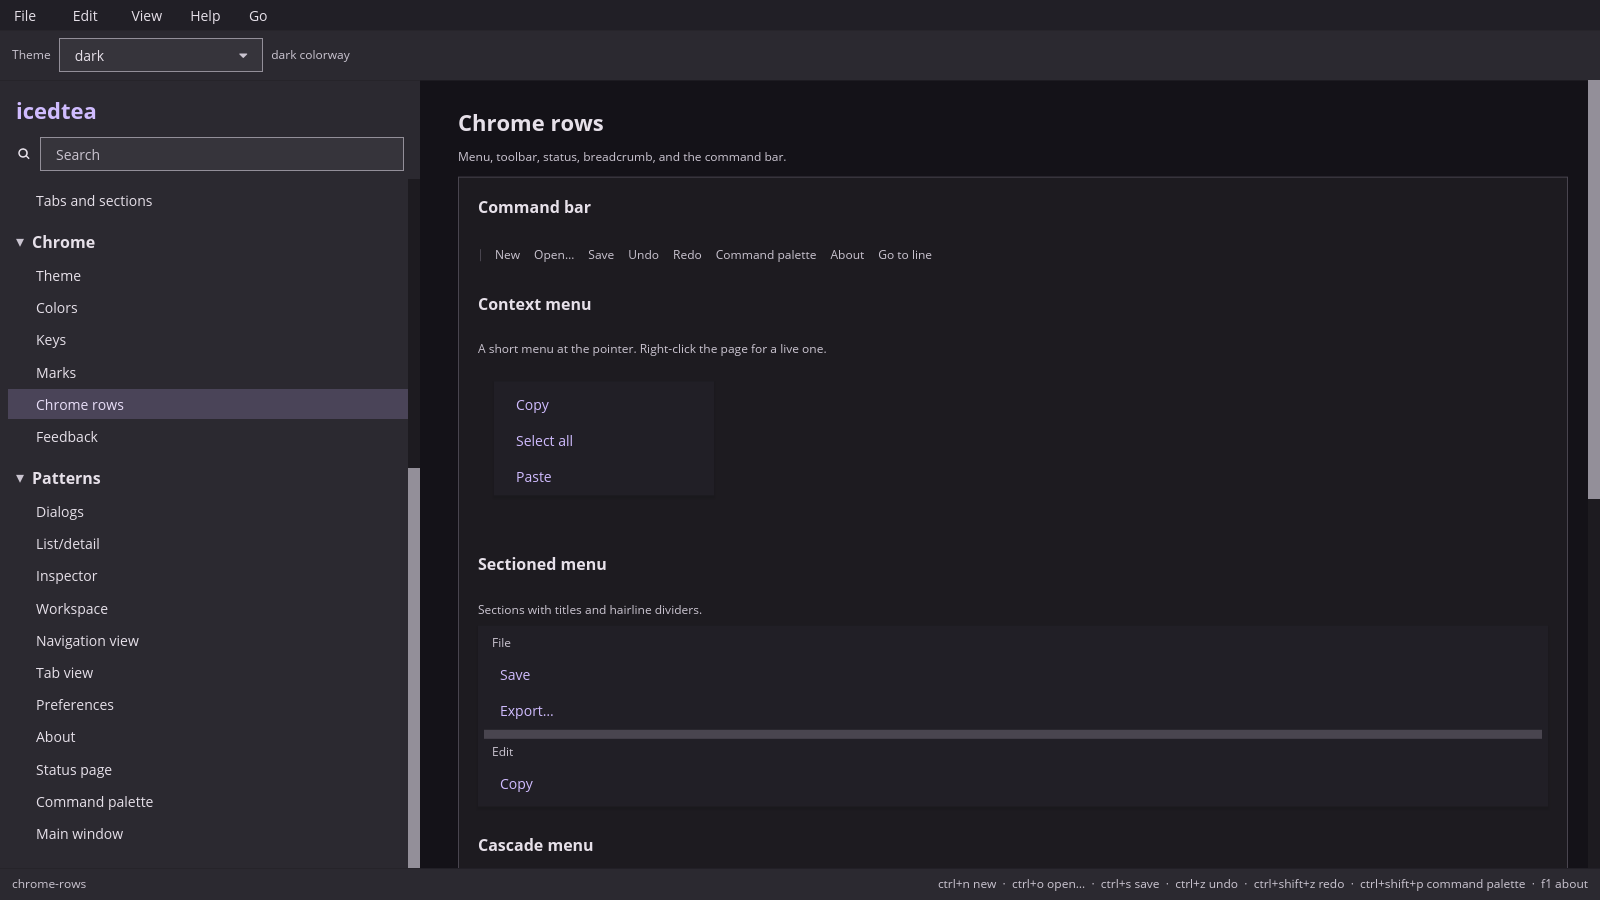
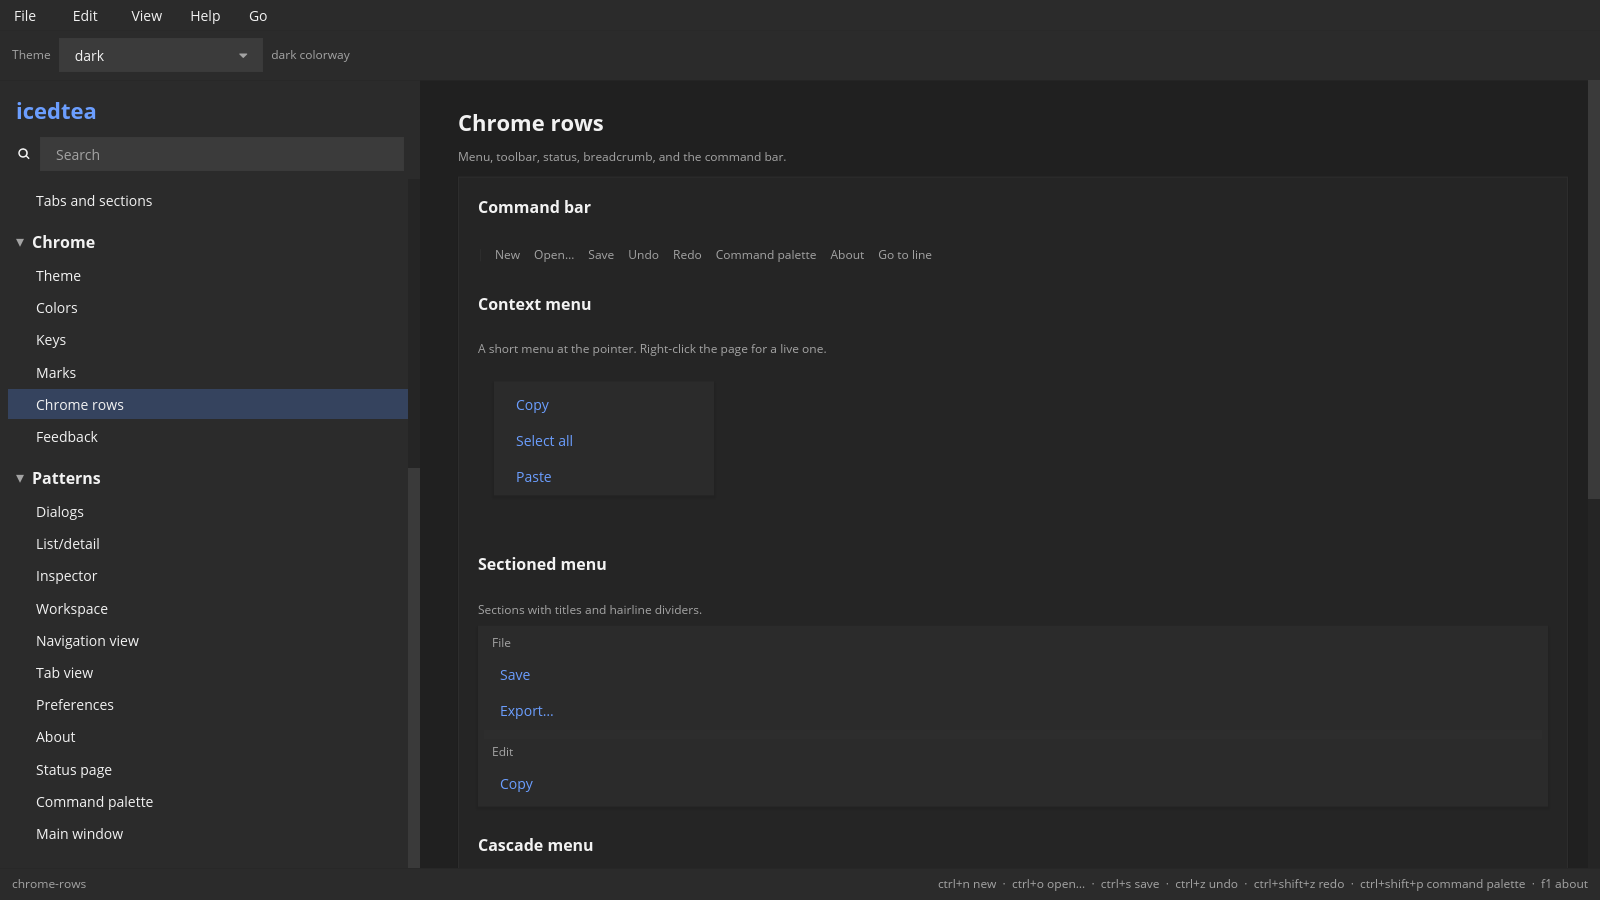
Restore the desktop light and dark pair
Follow-OS layers host chrome on that pair. Named colorways stay a
choice. Handbook stills and the tour GIF match the restored paint.

Changed region(s): [[0.25, 0.5289, 0.9688, 0.9644], [0.9688, 0.0933, 1.0, 0.56], [0.0, 0.0933, 0.0625, 0.1556]]

diff --git a/src/theme.rs b/src/theme.rs
@@ -1,16 +1,16 @@
 //! Semantic color tokens, mixing rules, and the named community catalog.
 //!
-//! `named` picks a colorway. `mix` builds washes. With `follow_os`,
+//! `named` picks a colorway. `mix` builds washes. `light` and `dark` are
+//! a neutral desktop pair. With `follow_os` (persist default),
 //! [`apply_os_chrome`] layers optional desktop colors ([`OsChrome`])
-//! onto that colorway; leave fields unset or pass [`OsChrome::empty`]
-//! to keep the palette as authored.
+//! onto that pair; a named colorway is a choice on top of that.
 //!
 //! ```
 //! let dark = icedtea::theme::named("dark");
 //! assert_eq!(dark.name, "dark");
 //! assert_eq!(
 //!     dark.tokens.selection,
-//!     icedtea::m3::scheme_dark().secondary_container
+//!     dark.tokens.scheme().secondary_container
 //! );
 //! let pure = icedtea::theme::apply_os_chrome(
 //!     dark.tokens,
@@ -42,13 +42,17 @@ use serde_json::Value;
 /// - `selection` → secondary_container
 /// - `selection_text` → on_secondary_container
 ///
-/// Prefer reading via [`Tokens::scheme`] for the full M3 role set.
+/// Prefer reading via [`Tokens::scheme`] for the full role set.
+/// `light` / `dark` are the desktop pair, not the M3 baseline palettes.
 ///
 /// ```
 /// let dark = icedtea::theme::named("dark");
 /// assert_eq!(dark.name, "dark");
 /// assert!(dark.tokens.canvas.r < 0.2);
-/// assert_eq!(dark.tokens.primary, icedtea::m3::scheme_dark().primary);
+/// assert_eq!(
+///     dark.tokens.primary,
+///     icedtea::iced::Color::from_rgb8(0x6B, 0x9E, 0xFF)
+/// );
 /// ```
 #[derive(Debug, Clone, Copy, PartialEq)]
 pub struct Tokens {
@@ -94,12 +98,11 @@ impl From<crate::m3::Scheme> for Tokens {
 }
 
 impl Tokens {
-    /// Full M3 scheme for this token face.
+    /// Full M3 role set for this token face.
     ///
-    /// Round-trips exactly when tokens were built from [`crate::m3::Scheme`]
-    /// (`light` / `dark` baselines). Community colorways keep container
-    /// roles from the light/dark baseline while short fields override
-    /// primary surface roles.
+    /// Round-trips exactly when tokens were built from [`crate::m3::Scheme`].
+    /// Named colorways (including the `light` / `dark` desktop pair) keep
+    /// container roles derived from the short fields.
     pub fn scheme(self) -> crate::m3::Scheme {
         self.full
     }
@@ -401,21 +404,10 @@ fn catalog() -> &'static BTreeMap<&'static str, NamedTheme> {
 
 fn builtin(name: &str) -> Option<NamedTheme> {
     let key = alias(name.trim());
-    if key.eq_ignore_ascii_case("light") {
-        return Some(NamedTheme {
-            name: "light",
-            tokens: crate::m3::scheme_light().into(),
-            dark: false,
-        });
+    if let Some(t) = catalog().get(key) {
+        return Some(*t);
     }
-    if key.eq_ignore_ascii_case("dark") {
-        return Some(NamedTheme {
-            name: "dark",
-            tokens: crate::m3::scheme_dark().into(),
-            dark: true,
-        });
-    }
-    catalog().get(key).copied()
+    catalog().get(key.to_ascii_lowercase().as_str()).copied()
 }
 
 /// Built-in catalog keys, `dark` / `light` / `high-contrast` first.
@@ -518,6 +510,7 @@ pub fn code_highlight(name: &str) -> iced::highlighter::Theme {
 }
 
 /// Look up a built-in colorway by name. Unknown names resolve to `dark`.
+/// `light` and `dark` are the desktop pair; other names are a choice.
 ///
 ///
 /// ```
@@ -763,12 +756,10 @@ pub fn resolve_pref(
 
 /// Optional desktop chrome colors layered onto a named colorway.
 ///
-/// **Default / opt-out:** leave every field `None` (or call
-/// [`OsChrome::empty`]) and set `follow_os` to `false` when applying —
-/// the colorway is used as authored.
-///
-/// **Opt-in:** when `follow_os` is true, [`apply_os_chrome`] overwrites
-/// only fields that are `Some`. Hosts fill what they can:
+/// Persist defaults `follow_os` on. When true, [`apply_os_chrome`]
+/// overwrites only fields that are `Some`. Hosts fill what they can.
+/// Leave every field `None` (or call [`OsChrome::empty`]) and set
+/// `follow_os` to `false` to keep a chosen colorway as authored.
 ///
 /// | Field | Typical host source |
 /// | --- | --- |
@@ -924,24 +915,21 @@ mod tests {
 
     #[test]
     fn scheme_roundtrip_preserves_baseline_roles() {
-        for (name, baseline) in [
-            ("light", crate::m3::scheme_light()),
-            ("dark", crate::m3::scheme_dark()),
-        ] {
-            let tok = named(name).tokens;
-            let s = tok.scheme();
-            assert_eq!(s, baseline, "{name} scheme() is exact M3 baseline");
-            assert_eq!(s.primary_container, baseline.primary_container);
-            assert_eq!(s.on_primary, baseline.on_primary);
-            assert_eq!(s.on_primary_container, baseline.on_primary_container);
-            assert_eq!(
-                s.surface_container_highest,
-                baseline.surface_container_highest
-            );
-            // From Scheme preserves full set.
-            let again: Tokens = baseline.into();
-            assert_eq!(again.scheme(), baseline);
+        for baseline in [crate::m3::scheme_light(), crate::m3::scheme_dark()] {
+            let tok: Tokens = baseline.into();
+            assert_eq!(tok.scheme(), baseline);
+            assert_eq!(tok.primary, baseline.primary);
+            assert_eq!(tok.canvas, baseline.surface);
         }
+        let dark = named("dark").tokens;
+        assert_eq!(dark.primary, rgb(0x6B, 0x9E, 0xFF));
+        assert_eq!(dark.canvas, rgb(0x20, 0x20, 0x20));
+        assert_eq!(dark.scheme().secondary_container, dark.selection);
+        let light = named("light").tokens;
+        assert_eq!(light.primary, rgb(0x25, 0x63, 0xEB));
+        assert_eq!(light.canvas, rgb(0xF3, 0xF3, 0xF3));
+        assert_ne!(dark.primary, crate::m3::scheme_dark().primary);
+        assert_ne!(light.primary, crate::m3::scheme_light().primary);
     }
 
     #[test]
@@ -1004,14 +992,8 @@ mod tests {
         }
         assert_eq!(named("").name, "dark");
         assert_eq!(named("  nord  ").name, "nord");
-        assert_eq!(
-            named("dark").tokens.canvas,
-            crate::m3::scheme_dark().surface
-        );
-        assert_eq!(
-            named("light").tokens.canvas,
-            crate::m3::scheme_light().surface
-        );
+        assert_eq!(named("dark").tokens.canvas, rgb(0x20, 0x20, 0x20));
+        assert_eq!(named("light").tokens.canvas, rgb(0xF3, 0xF3, 0xF3));
         assert!(named("light").tokens.canvas.r > named("dark").tokens.canvas.r);
         assert_eq!(named("high-contrast").tokens.border, rgb(0xFF, 0xFF, 0xFF));
         assert_ne!(named("gruvbox").tokens.canvas, named("nord").tokens.canvas);
@@ -1122,7 +1104,6 @@ mod tests {
     #[test]
     fn light_selection_keeps_dark_ink() {
         let t = named("light").tokens;
-        // M3 on-secondary-container is dark ink on a light container.
         assert!(relative_luma(t.selection_text) < 0.5);
         assert!(relative_luma(t.selection) > 0.7);
         let sun = named("solarized-light").tokens;

diff --git a/src/lib.rs b/src/lib.rs
@@ -76,14 +76,14 @@
 //! assert_eq!(handle(KeyContext::default(), &table, &ev), Some(save));
 //! ```
 //!
-//! # Tokens (Material Design 3)
+//! # Tokens
 //!
-//! [`theme::named`] picks a colorway seeded from M3 schemes
-//! ([`m3::scheme_light`] / [`m3::scheme_dark`]). Control paint paths
-//! read roles through [`Tokens::scheme`](theme::Tokens::scheme). Short
-//! fields (`primary`, `text`, …) are aliases of those roles.
-//! Desktop chrome is M3 shape None (0 dp, rectangular).
-//! [`theme::mix`] builds washes:
+//! [`theme::named`] picks a colorway. `light` and `dark` are a neutral
+//! desktop pair; follow-OS layers host chrome on that pair. Other
+//! catalog names are a choice. Control paint paths read roles through
+//! [`Tokens::scheme`](theme::Tokens::scheme). Short fields (`primary`,
+//! `text`, …) are aliases of those roles. Desktop chrome is M3 shape
+//! None (0 dp, rectangular). [`theme::mix`] builds washes:
 //!
 //! ```
 //! use icedtea::theme;
@@ -310,7 +310,7 @@ mod tests {
     fn dark_selection_is_scheme_secondary_container() {
         let t = theme::named("dark").tokens;
         assert_eq!(theme::selection_fill(t), t.selection);
-        assert_eq!(t.selection, crate::m3::scheme_dark().secondary_container);
+        assert_eq!(t.selection, t.scheme().secondary_container);
     }
 
     #[test]

diff --git a/book/src/theming.md b/book/src/theming.md
@@ -1,16 +1,12 @@
 # Theming
 
-Colorways seed **Material Design 3** schemes (`m3::Scheme`). See [Material Design 3 foundations](./m3-foundations.md).
+Styling is Rust: semantic tokens plus mixing rules. Short token fields
+map onto Material Design 3 roles (`Tokens::scheme()` for the full
+set). See [Material Design 3 foundations](./m3-foundations.md).
 
-
-Styling is Rust: semantic tokens plus mixing rules.
-
-Short token fields map onto M3 roles (`Tokens::scheme()` for the full
-scheme). Aliases: `canvas`/`surface`/`panel`/`text`/`muted`/`primary`/
-`accent`/`danger`/`border`/`selection`. Baseline light/dark keep exact
-M3 containers; community colorways sync containers from aliases and
-recompute solid-fill `on_*` roles (`on_primary` and the rest) for
-contrast on those fills.
+Aliases: `canvas`/`surface`/`panel`/`text`/`muted`/`primary`/
+`accent`/`danger`/`border`/`selection`. Colorways sync containers from
+those aliases and recompute solid-fill `on_*` roles for contrast.
 Washes use scheme state layers (`hover_fill` / `pressed_fill`). Desktop
 control corners are M3 shape **None** (see [foundations](./m3-foundations.md)).
 Constructors take `Tokens`.
@@ -22,10 +18,11 @@ Dracula, Everforest, Kanagawa, Ayu, GitHub, and others).
 and `theme::code_highlight` pick UI tokens and the iced highlighter
 face together. Register more on `ThemeCatalog`. `Boot.theme` is a
 concrete name and defaults to `dark`. `light` and `dark` are a
-neutral desktop pair (not a community skin). `markdown_view` paints
-inline code and links from `Tokens::scheme()` (`on_surface`,
-`surface_container_high`, `primary`). Truncation is slicing the source
-before `MarkdownDoc::parse`.
+neutral desktop pair. Persist defaults `follow_os` on, so host chrome
+layers onto that pair; pick another catalog name to choose a colorway.
+`markdown_view` paints inline code and links from `Tokens::scheme()`
+(`on_surface`, `surface_container_high`, `primary`). Truncation is
+slicing the source before `MarkdownDoc::parse`.
 
 ```rust
 let mut cat = icedtea::theme::ThemeCatalog::new();
@@ -47,11 +44,13 @@ OS. Persist stores `theme` plus optional `family` and `follow_os`
 
 ## Follow-OS chrome
 
-**Default:** a named colorway only. Set `follow_os` to false, or pass
-[`OsChrome::empty`](https://docs.rs/icedtea/latest/icedtea/theme/struct.OsChrome.html),
-and no desktop colors are applied.
+Persist defaults `follow_os` on. The desktop pair (`light` / `dark`)
+follows OS appearance; host colors layer on top. A named colorway is a
+choice: set `theme` to that name, and set `follow_os` to false to keep
+the palette as authored (or pass
+[`OsChrome::empty`](https://docs.rs/icedtea/latest/icedtea/theme/struct.OsChrome.html)).
 
-**Opt-in:** with `follow_os` true:
+With `follow_os` true:
 
 1. Resolve the family light/dark member from OS appearance (as above).
 2. Read host chrome via [`theme::os_chrome`](https://docs.rs/icedtea/latest/icedtea/theme/fn.os_chrome.html)
@@ -61,7 +60,7 @@ and no desktop colors are applied.
 3. Apply with
    [`theme::apply_os_chrome`](https://docs.rs/icedtea/latest/icedtea/theme/fn.apply_os_chrome.html).
    Each `Some` field overwrites the matching token; the rest of the
-   colorway stays. Selection is rebuilt from primary + canvas.
+   pair (or chosen colorway) stays. Selection is rebuilt from primary + canvas.
 
 What the host fills (missing fields stay on the colorway):
 

diff --git a/AGENTS.md b/AGENTS.md
@@ -50,12 +50,14 @@ Rust 1.89, edition 2021, iced 0.14. License MIT.
 - One `Action` feeds menus, toolbars, shortcuts, context menus, footer
   hints, and the command palette.
 - **Material Design 3** foundations in `m3` (color roles, type scale,
-  shape, elevation, density, control states). `theme::Tokens` seeds from
-  `m3::Scheme` (baseline light/dark); `Tokens::scheme()` returns the
-  stored scheme. Desktop chrome uses `m3::Component` → shape **None**
-  (0 dp, rectangular). Named colorways plus high-contrast remain; apps
-  may register more that implement the same roles. See `m3::mapping`
-  for catalog inventory. `theme::mix` builds washes.
+  shape, elevation, density, control states). `Tokens::scheme()` maps
+  short fields onto those roles. `light` and `dark` are a neutral
+  desktop pair; persist defaults `follow_os` on so host chrome layers
+  onto that pair. A named colorway is a choice. Desktop chrome uses
+  `m3::Component` → shape **None** (0 dp, rectangular). High-contrast
+  and community colorways remain; apps may register more that implement
+  the same roles. See `m3::mapping` for catalog inventory.
+  `theme::mix` builds washes.
 - User-facing text uses `typo::UI` (`Font::DEFAULT`, platform sans).
   Code uses `typo::MONO` (`Font::MONOSPACE`). Never bundle a font
   file. Apps that want a named family load it on the iced application

diff --git a/book/src/reference/chrome.md b/book/src/reference/chrome.md
@@ -17,8 +17,9 @@ Constructor: [`theme::named`](https://docs.rs/icedtea/latest/icedtea/theme/fn.na
 [source](https://github.com/indynull/icedtea/blob/master/src/theme.rs) ·
 [icedtea](https://crates.io/crates/icedtea)
 
-Unknown names resolve to `dark`. Register more on `ThemeCatalog`.
-See [Theming](../theming.md).
+Unknown names resolve to `dark`, the desktop pair with `light`.
+Persist defaults follow-OS on that pair. Register more on
+`ThemeCatalog`. See [Theming](../theming.md).
 
 ### Colors
 

diff --git a/book/src/m3-foundations.md b/book/src/m3-foundations.md
@@ -5,7 +5,8 @@ icedtea maps its design system to
 
 ## Color roles
 
-`theme::Tokens` is seeded from `m3::Scheme` (baseline light/dark).
+`Tokens::scheme()` maps short token fields onto `m3::Scheme` roles.
+`light` and `dark` are the desktop pair, not the M3 baseline palettes.
 Field mapping:
 
 | Tokens field | M3 role |

diff --git a/CHANGELOG.md b/CHANGELOG.md
@@ -2,6 +2,11 @@
 
 ## Unreleased
 
+### Theme
+
+- `light` and `dark` are the neutral desktop pair again. Follow-OS
+  layers host chrome on that pair; a named colorway is a choice.
+
 ### Guide
 
 - The handbook sidebar nests Start, Compose, Cookbook, and Reference
